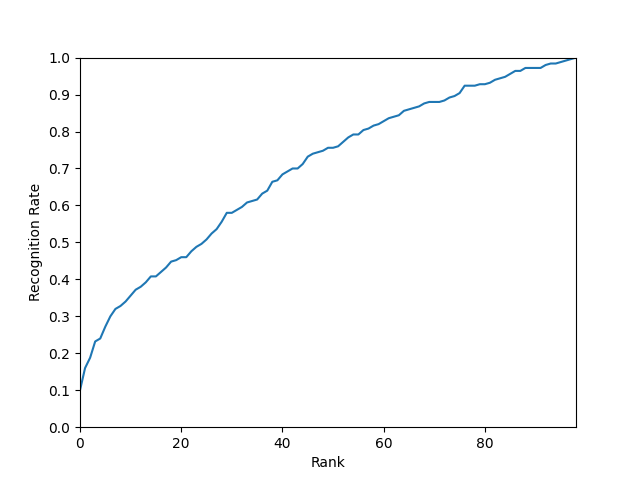
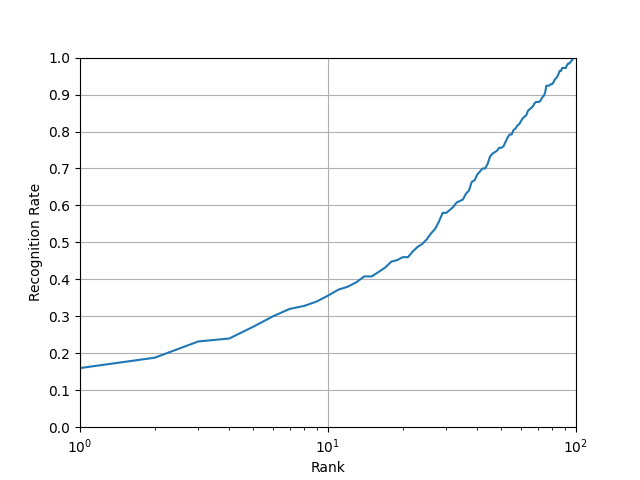
results

diff --git a/metrics/evaluation_recognition.py b/metrics/evaluation_recognition.py
@@ -27,8 +27,6 @@ class Evaluation:
 				
 		return count_correct/count_all*100
 	
-	# Add your own metrics here, such as rank5, (all ranks), CMC plot, ROC, ...
-	
 	def compute_rank1_accuracy(self, Y, y):
 		score = 0
 		for i in range(len(Y)):
@@ -71,6 +69,9 @@ class Evaluation:
 		plt.margins(0)
 		plt.ylim(ymin=0, ymax=1)
 		plt.yticks(np.arange(0, 1.1, 0.1))
+		plt.xscale('log')
+		plt.xlim(xmin=0, xmax=100)
+		plt.grid(True)
 		plt.show()
 	
 	def plotROC(self, x):

diff --git a/feature_extractors/cnn/predictor.py b/feature_extractors/cnn/predictor.py
@@ -7,7 +7,7 @@ from tensorflow.keras import models
 class CNN:
 	def __init__(self, resize=100):
 		self.resize=resize
-		self.model = models.load_model('model_1.h5')
+		self.model = models.load_model('model_2_augmented.h5')
 		# model_1
 		# model_2_augmented
 		
